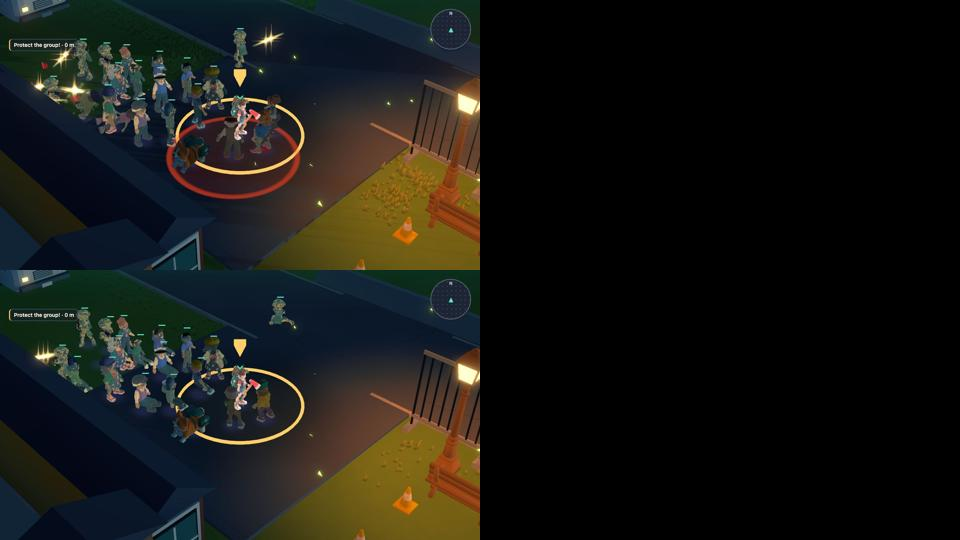
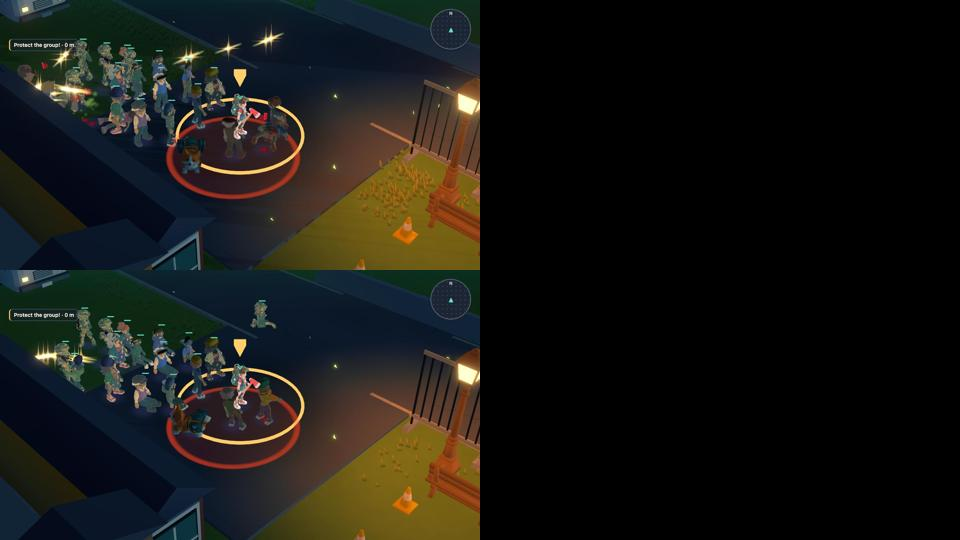
Capture L8 protect attack on both tiers

diff --git a/docs/reports/s246-l8opening/README.md b/docs/reports/s246-l8opening/README.md
@@ -34,5 +34,5 @@ After the plaza seal, `L8BossArenas` order is flamingo → lion → monkey → z
 - `npm run lint`: passed after removing an unused local in the arrival diagnostic.
 - `npm run verify -- E30`: passed the shared per-change gate after the checkpoint fix: typecheck, lint and 107 tests across 27 files; unit time 135.1 s / 240 s. The separate remote-unit requirement remains open.
 - Remote isolated unit run: initially failed at 245.8 s against the 240 s limit (exit 124); an L8 vehicle fixture also expected the removed tour. The fixture now checks the 20 s breach and arrival marker, and exposed a stale checkpoint-restore tour marker which was corrected. A remote rerun passed the vehicle file but again timed out at 245.6 s (exit 124), so the complete remote unit gate remains unmet. The local E30 gate completed within budget.
-- HIGH then LOW captures at 35 s, WebGL2 Metal, one pooled headless browser, passive god-mode courier at the normal follow camera: [protect sheet](protect-sheet.jpg). In HIGH, several infected surround the courier within a red attack ring and soldiers fire beside the group; in LOW, two infected stand at the courier in striking range while a soldier fires. The foreground building obscures part of the group, and the still LOW frame does not independently prove an attack animation; the attack-start measurement above supplies timing evidence. No browser errors were recorded.
+- HIGH then LOW captures at 40.5 s, WebGL2 Metal, one pooled headless browser, passive god-mode courier at the normal follow camera: [protect sheet](protect-sheet.jpg). Both frames show infected at the courier within a red attack telegraph while soldiers fire beside the group; the foreground building obscures part of the group. No browser errors were recorded.
 - The zero-flag threat audit and remote unit timing remain open; E30 verification passed before the latest runner reporting and test changes.
